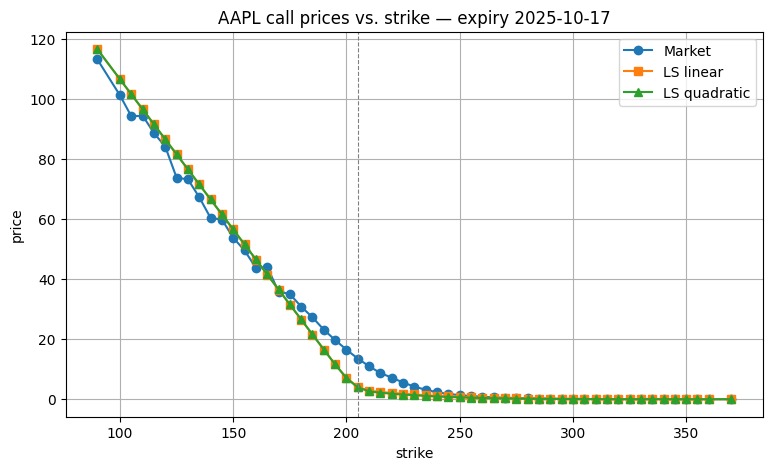
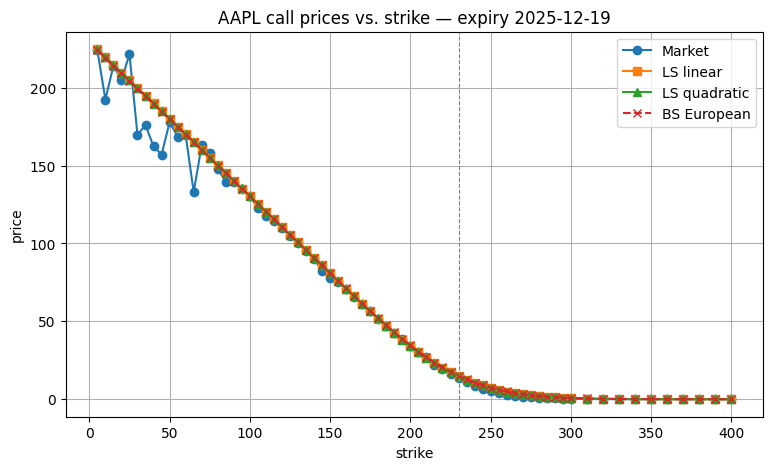
Update to include Black-Scholes Estimate

diff --git a/American-Option-Pricing.py b/American-Option-Pricing.py
@@ -1,11 +1,12 @@
 # =====================================================================
-# Monte-Carlo demo: pricing an American CALL on AAPL
-# – pulls dividend yield, risk-free rate and ATM implied vol from Yahoo
-# – simulates risk-neutral price paths
-# – values the option with the Longstaff-Schwartz regression trick
+# Monte Carlo demo: pricing an American CALL on AAPL
+# – fetch dividend yield, risk-free rate and ATM implied vol from Yahoo
+# – simulate risk-neutral price paths
+# – value the option with the Longstaff–Schwartz regression method
+# – overlay a Black–Scholes European reference on the smile plot
 # =====================================================================
 
-# install: pip install yfinance pandas_market_calendars matplotlib 
+# install: pip install yfinance pandas_market_calendars matplotlib
 
 import numpy as np
 import pandas as pd
@@ -16,23 +17,23 @@ import math, warnings
 warnings.filterwarnings("ignore", category=UserWarning)
 
 # ---------------------------------------------------------------------
-# path generator: risk-neutral Geometric Brownian Motion
+# Risk-neutral GBM path generator
 # ---------------------------------------------------------------------
 def simulate_paths(S0, r, q, sigma, n_days, n_paths,
                    seed=42, antithetic=True) -> pd.DataFrame:
-    """Return a DataFrame of size (n_days+1 , n_paths) with price paths."""
+    """Return a DataFrame of shape (n_days+1, n_paths) with price paths."""
     if seed is not None:
         np.random.seed(seed)
 
-    # cheap variance reduction: pair each normal shock with its negative
+    # Antithetic variates: pair each shock with its negative
     if antithetic:
-        n_paths += n_paths % 2                   # make even
+        n_paths += n_paths % 2                   # ensure even
         Z_half = np.random.normal(size=(n_days, n_paths // 2))
         Z = np.hstack([Z_half, -Z_half])
     else:
         Z = np.random.normal(size=(n_days, n_paths))
 
-    dt = 1 / 252                                # one trading day
+    dt = 1 / 252                                 # trading-day step
     drift = (r - q - 0.5 * sigma**2) * dt
     shocks = sigma * np.sqrt(dt) * Z
     log_paths = np.vstack([np.zeros(n_paths), drift + shocks]).cumsum(axis=0)
@@ -42,30 +43,38 @@ def simulate_paths(S0, r, q, sigma, n_days, n_paths,
 
 # ---------------------------------------------------------------------
 # Longstaff–Schwartz: regression-based early-exercise decision
+# Target is the PV at time t of all future cash flows if we continue
 # ---------------------------------------------------------------------
 def ls_price(strike, paths, r, basis_fns):
-    """Price an American call and return (value , 95%-CI half-width)."""
+    """Price an American call and return (value, 95%-CI half-width)."""
     dt = 1 / 252
     disc = math.exp(-r * dt)
 
     payoff = np.maximum(paths.values - strike, 0)
     cash = np.zeros_like(payoff)
-    cash[-1] = payoff[-1]                       # must exercise at expiry
+    cash[-1] = payoff[-1]                       # exercise at expiry if still held
 
-    # walk backwards through time
+    # Backward induction over time
     for t in range(len(paths) - 2, 0, -1):
-        itm = payoff[t] > 0                     # only ITM paths matter
+        itm = payoff[t] > 0                     # regress on ITM paths only
         if not itm.any():
             continue
-        X = np.column_stack([f(paths.values[t, itm]) for f in basis_fns])
-        y = cash[t + 1, itm] * disc            # continuation if we wait one day
-        coeff, *_ = np.linalg.lstsq(X, y, rcond=None)
-        cont = X @ coeff                       # fitted continuation value
-        ex_now = payoff[t, itm] >= cont
-        idx = np.where(itm)[0][ex_now]         # columns that exercise now
-        cash[t, idx] = payoff[t, idx]
-        cash[t + 1:, idx] = 0                  # cancel future cash-flows
 
+        X = np.column_stack([f(paths.values[t, itm]) for f in basis_fns])
+
+        # Continuation target: discounted sum of all future cash flows
+        steps_ahead = payoff.shape[0] - (t + 1)
+        weights = (disc ** np.arange(1, steps_ahead + 1))[:, None]
+        y = (cash[t + 1:, itm] * weights).sum(axis=0)
+
+        coeff, *_ = np.linalg.lstsq(X, y, rcond=None)
+        cont = X @ coeff
+        ex_now = payoff[t, itm] >= cont
+        idx = np.where(itm)[0][ex_now]
+        cash[t, idx] = payoff[t, idx]           # take cash now
+        cash[t + 1:, idx] = 0                   # zero future cash flows
+
+    # Discount to t=0 and average across paths
     disc_vec = np.exp(-r * dt * np.arange(len(paths)))[:, None]
     pv = (cash * disc_vec).sum(axis=0)
     mean = pv.mean()
@@ -73,19 +82,33 @@ def ls_price(strike, paths, r, basis_fns):
     return mean, 1.96 * se
 
 # ---------------------------------------------------------------------
-# pull AAPL market data
+# Black–Scholes European call (with dividend yield q)
+# ---------------------------------------------------------------------
+def _norm_cdf(x):
+    return 0.5 * (1.0 + math.erf(x / math.sqrt(2.0)))
+
+def bs_call(S0, K, r, q, sigma, T):
+    if sigma <= 0 or T <= 0:
+        return max(0.0, S0*math.exp(-q*T) - K*math.exp(-r*T))
+    vol = sigma * math.sqrt(T)
+    d1 = (math.log(S0/K) + (r - q + 0.5*sigma**2)*T) / vol
+    d2 = d1 - vol
+    return S0*math.exp(-q*T)*_norm_cdf(d1) - K*math.exp(-r*T)*_norm_cdf(d2)
+
+# ---------------------------------------------------------------------
+# Pull AAPL market data
 # ---------------------------------------------------------------------
 symbol = "AAPL"
 tk = yf.Ticker(symbol)
 spot = float(tk.history("1d")["Close"][-1])
 
-# dividend yield comes back as “percent” (e.g. 0.52 for 52 %), convert to fraction
+# Dividend yield: yfinance may return a fraction; this line assumes percent
 q = float(tk.info["dividendYield"]) / 100
 
-# 3-month Treasury bill (^IRX) close also quoted in percent
+# 3-month Treasury bill (^IRX) close quoted in percent
 r = float(yf.Ticker("^IRX").history("5d")["Close"].dropna()[-1]) / 100
 
-# nearest listed option expiry at least 90 calendar days away
+# Nearest listed option expiry at least 90 calendar days away
 exp_dates = pd.to_datetime(tk.options)
 today = pd.Timestamp.today().normalize()
 expiry = exp_dates[exp_dates >= today + pd.Timedelta(days=90)].min()
@@ -101,9 +124,10 @@ sigma_iv = float(atm_row["impliedVolatility"])
 # NYSE business-day count to expiry
 nyse = mcal.get_calendar("NYSE")
 n_days = len(mcal.date_range(nyse.schedule(today, expiry), frequency="1D"))
+T_years = n_days / 252.0                       # year fraction for BS
 
 # ---------------------------------------------------------------------
-# simulate paths and show a handful
+# Simulate paths and plot a few
 # ---------------------------------------------------------------------
 paths = simulate_paths(spot, r, q, sigma_iv, n_days, 20_000)
 
@@ -114,7 +138,7 @@ plt.title(f"Risk-neutral GBM paths  (S₀={spot:.2f}, σ={sigma_iv:.2%}, r={r:.2
 plt.xlabel("trading day"); plt.ylabel("price"); plt.grid(True); plt.show()
 
 # ---------------------------------------------------------------------
-# price the ATM American call with two regression bases
+# Price the ATM American call with two regression bases
 # ---------------------------------------------------------------------
 basis_lin = [lambda x: np.ones_like(x), lambda x: x]
 basis_quad = basis_lin + [lambda x: x**2]
@@ -132,17 +156,19 @@ print(f"LS linear    : {price_lin:.4f} ±{ci_lin:.4f}")
 print(f"LS quadratic : {price_quad:.4f} ±{ci_quad:.4f}")
 
 # ---------------------------------------------------------------------
-# full smile comparison
+# Full smile comparison (with Black–Scholes European curve)
 # ---------------------------------------------------------------------
 strikes = sorted(chain["strike"].unique())
 mkt_px = [chain.loc[chain["strike"] == k, "lastPrice"].iloc[0] for k in strikes]
 ls_lin_smile = [ls_price(k, paths, r, basis_lin)[0]  for k in strikes]
 ls_quad_smile = [ls_price(k, paths, r, basis_quad)[0] for k in strikes]
+bs_smile = [bs_call(spot, k, r, q, sigma_iv, T_years) for k in strikes]
 
 plt.figure(figsize=(9, 5))
 plt.plot(strikes, mkt_px, "o-", label="Market")
 plt.plot(strikes, ls_lin_smile, "s-", label="LS linear")
 plt.plot(strikes, ls_quad_smile, "^-", label="LS quadratic")
+plt.plot(strikes, bs_smile, "x--", label="BS European")
 plt.axvline(atm_strike, color="gray", ls="--", lw=0.8)
 plt.title(f"{symbol} call prices vs. strike — expiry {expiry_str}")
 plt.xlabel("strike"); plt.ylabel("price"); plt.legend(); plt.grid(True); plt.show()

diff --git a/README.md b/README.md
@@ -1,16 +1,16 @@
-
 This project implements the Longstaff–Schwartz method to estimate the price of American stock options. An American option lets you buy a share at a fixed strike price any time up to expiry, so its value depends both on when it’s optimal to exercise and on the range of possible future stock prices.
 
 We begin by simulating a large number of possible future price paths under the risk-neutral measure. Each day’s log-return is modeled as a fixed drift (the risk-free rate minus the dividend yield) plus a random shock drawn from a normal distribution. To reduce Monte-Carlo noise we use antithetic sampling: for every vector of random shocks we also simulate with its exact negative. Pairing each path with its mirror leaves the expected payoff unchanged while cutting variance.
 
-Once all paths are generated up to expiry, we know each path’s final payoff (zero if out of the money, or the stock price minus strike if in the money). To decide on earlier exercise we work backwards. On each day (t), for every path that is in the money, we already know the path’s optimal cash-flow on day (t+1) (because the backward routine has computed it). We discount that known cash-flow back to day (t) to get the “hold” payoff for each path. We then run an ordinary least-squares regression of those discounted payoffs (the dependent variable) against simple functions of the current stock price (the independent variables) — in the linear version a constant plus the price, and in the quadratic version an added price-squared term. That regression curve gives our smooth estimate of the expected value of holding one more day. For each path we compare that continuation estimate to the immediate exercise payoff (stock price minus strike) and pick whichever is larger. If the exercise payoff wins, we record that cash flow and set all later cash flows on that path to zero (so each path pays only once). Repeating this regression-and-compare step at every prior date builds out the full optimal exercise rule and yields the option’s estimated value at time zero.
+Once all paths are generated up to expiry, we know each path’s final payoff (zero if out of the money, or the stock price minus strike if in the money). To decide on earlier exercise we work backwards. On each day (t), for every path that is in the money, we already know the value of continuing from day (t+1) onward under the policy built so far. We discount that continuation value back to day (t) to get the “hold” payoff for each path. We then run an ordinary least-squares regression of those discounted continuation values (the dependent variable) against simple functions of the current stock price (the independent variables) — in the linear version a constant plus the price, and in the quadratic version an added price-squared term. That regression curve gives our smooth estimate of the expected value of holding one more day. For each path we compare that continuation estimate to the immediate exercise payoff (stock price minus strike) and pick whichever is larger. If the exercise payoff wins, we record that cash flow and set all later cash flows on that path to zero (so each path pays only once). Repeating this regression-and-compare step at every prior date builds out the full optimal exercise rule and yields the option’s estimated value at time zero.
 
-All model inputs (today’s spot price, forward dividend yield, three-month Treasury rate, and at-the-money implied volatility) are fetched automatically from Yahoo Finance so that no parameter is hard-coded. When discounting the chosen cash flow we apply continuous compounding per calendar day (so weekends and holidays still earn interest). After averaging the present-values across all paths to get our Monte-Carlo price, we compute the sample standard deviation over the square root of the number of paths to report a 95 % confidence interval. Finally, the script prints our price with its confidence band next to the actual market quote for the ATM option, then redraws the full “smile” of model versus market prices across all strikes. Example plots of the stock price simulation and of predicted versus actual option prices follow:
+All model inputs (today’s spot price, forward dividend yield, three-month Treasury rate, and at-the-money implied volatility) are fetched automatically from Yahoo Finance so that no parameter is hard-coded. When discounting the chosen cash flow we apply continuous compounding per trading day. After averaging the present-values across all paths to get our Monte-Carlo price, we compute the sample standard error and report a 95% confidence interval. Finally, the script prints our price with its confidence band next to the actual market quote for the ATM option, then redraws the full “smile” of model versus market prices across all strikes. Example plots of the stock price simulation and of predicted versus actual option prices follow:
 
 <img src="images/Options.png"/>
 <img src="images/OptionPrice.png"/>
 
-Dependencies: yfinance, pandas_market_calendars, matplotlib, numpy, math, warnings
+We can see that our model largely agrees both with the Black-Scholes European option price and with the market price. For extremely low strike prices the market data is noisy due to very low sample sizes. 
+
+Dependencies: yfinance, pandas_market_calendars, matplotlib, pandas, numpy
 
 Running the code: python American-Option-Pricing.py
-
